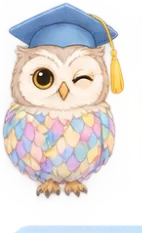
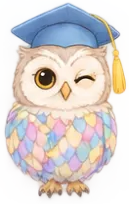
Fix mascot/History Hills overlap and stray fragment in mascot art
Two bugs visible on wide viewports (reported live on the Vercel
preview): the home-screen mascot (positioned via right:%) and History
Hills (positioned via left:%) scale proportionally with the container
so they always overlapped on wide screens regardless of container
width — repositioned all five island percentages and confined the
mascot to the top-right corner with real clearance instead of just
capping #content's width (which alone doesn't fix percentage-relative
overlap).

Also found and fixed: mascot-happy.png carried a disconnected UI
fragment (part of the original mockup's connector line) inside its
crop bounding box, showing up as a stray blue bar under Quill's feet.
Re-cropped from the source sheet with a tighter y-bound to exclude it.
Claude-Session: https://claude.ai/code/session_01PEf3WQY7B7MhyQEPRVd8PS

diff --git a/learning-platform/quill.html b/learning-platform/quill.html
@@ -130,7 +130,7 @@
   #bell::after{content:'';position:absolute;top:8px;right:9px;width:7px;height:7px;border-radius:50%;background:var(--accent);display:none;}
   #bell.dot::after{display:block;}
 
-  #content{flex:1;padding:0 24px 40px;display:flex;gap:20px;align-items:flex-start;}
+  #content{flex:1;padding:0 24px 40px;display:flex;gap:20px;align-items:flex-start;max-width:1400px;margin:0 auto;width:100%;}
   #centerCol{flex:1;min-width:0;}
   #rightCol{width:290px;flex:0 0 290px;display:flex;flex-direction:column;gap:16px;}
 
@@ -158,7 +158,7 @@
   #journeyMap .mapHead h2{margin:0;font-size:1.15rem;}
   #journeyMap .mapHead p{margin:4px 0 0;color:var(--ink-soft);font-size:0.85rem;max-width:320px;}
 
-  #quillHost{position:absolute;right:8%;top:6%;text-align:center;z-index:3;}
+  #quillHost{position:absolute;right:1%;top:0;text-align:center;z-index:3;}
   .speechBubble{
     background:#fff;border-radius:16px;padding:8px 12px;font-size:0.78rem;font-weight:700;
     box-shadow:var(--shadow-sm);max-width:150px;margin:0 auto 6px;position:relative;color:var(--ink);
@@ -683,11 +683,11 @@ function levelFromXp(xp){
 
 /* ---------------- Subject / world data ---------------- */
 const SUBJECTS = [
-  { id:'maths', name:'Maths', world:'Numbers Forest', color:'maths', island:'numbers-forest', subjectIcon:'maths', unlocked:true, pos:{left:'6%',top:'52%'} },
-  { id:'english', name:'English', world:'Reading Retreat', color:'english', island:'reading-retreat', subjectIcon:'english', unlocked:false, pos:{left:'26%',top:'6%'} },
-  { id:'science', name:'Science', world:'Space Station', color:'science', island:'space-station', subjectIcon:'science', unlocked:false, pos:{left:'52%',top:'46%'} },
-  { id:'history', name:'History', world:'History Hills', color:'history', island:'history-hills', subjectIcon:'history', unlocked:false, pos:{left:'70%',top:'8%'} },
-  { id:'art', name:'Art', world:'Creative Cove', color:'art', island:'creative-cove', subjectIcon:'art', unlocked:false, pos:{left:'82%',top:'50%'} },
+  { id:'maths', name:'Maths', world:'Numbers Forest', color:'maths', island:'numbers-forest', subjectIcon:'maths', unlocked:true, pos:{left:'2%',top:'56%'} },
+  { id:'english', name:'English', world:'Reading Retreat', color:'english', island:'reading-retreat', subjectIcon:'english', unlocked:false, pos:{left:'18%',top:'10%'} },
+  { id:'science', name:'Science', world:'Space Station', color:'science', island:'space-station', subjectIcon:'science', unlocked:false, pos:{left:'36%',top:'52%'} },
+  { id:'history', name:'History', world:'History Hills', color:'history', island:'history-hills', subjectIcon:'history', unlocked:false, pos:{left:'52%',top:'14%'} },
+  { id:'art', name:'Art', world:'Creative Cove', color:'art', island:'creative-cove', subjectIcon:'art', unlocked:false, pos:{left:'64%',top:'56%'} },
 ];
 
 /* ---------------- Lesson content: Numbers Forest (Maths) ---------------- */
